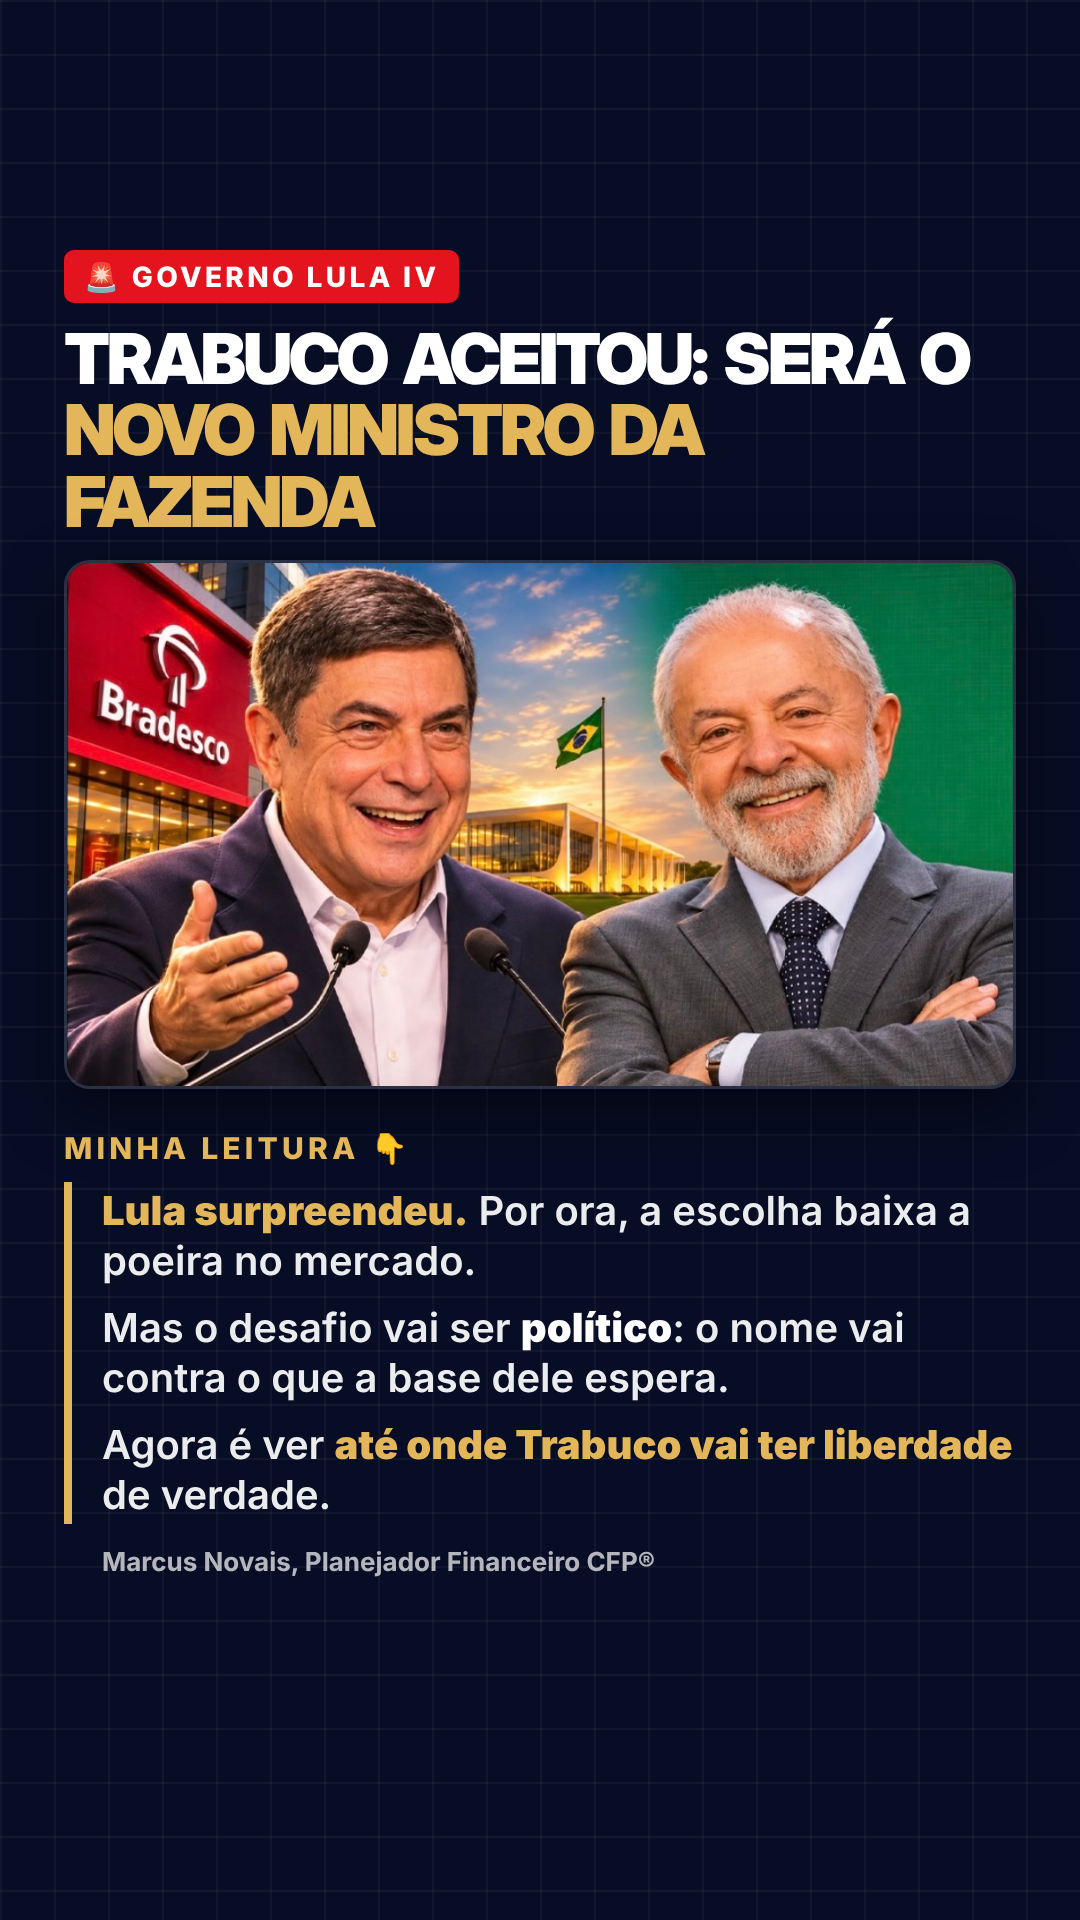
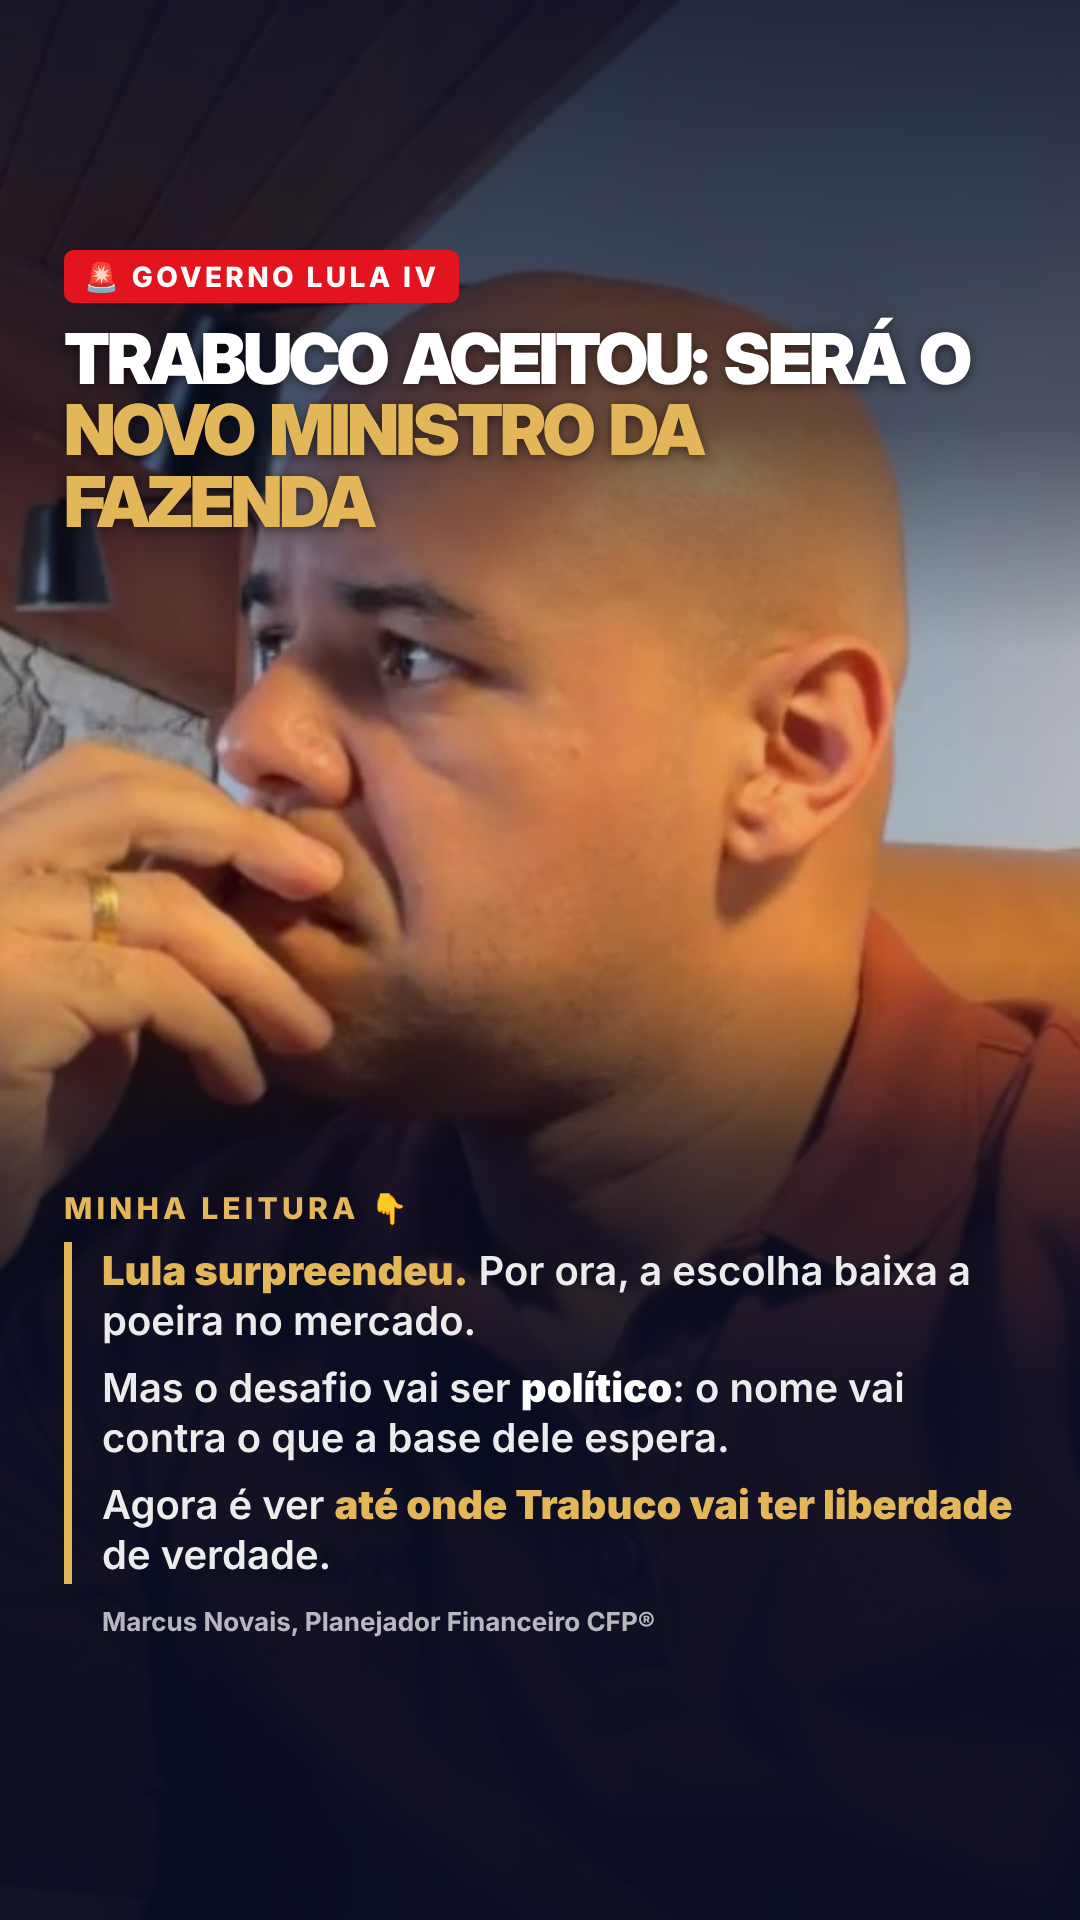
Story Trabuco: foto do Marcus de fundo
Claude-Session: https://claude.ai/code/session_01JkBXj6tz5hpSkGAznkwYEm

diff --git a/stories-trabuco-fazenda/opiniao.html b/stories-trabuco-fazenda/opiniao.html
@@ -6,7 +6,7 @@
     background-image:linear-gradient(rgba(255,255,255,.04) 2px, transparent 2px), linear-gradient(90deg, rgba(255,255,255,.04) 2px, transparent 2px); background-size:54px 54px; }
   .box { position:absolute; left:64px; right:64px; }
   .pill { display:inline-block; background:#e3141e; color:#fff; font-weight:800; font-size:28px; letter-spacing:.12em; text-transform:uppercase; padding:10px 20px 9px; border-radius:10px; }
-  h1 { font-family:"Inter Display","Inter",sans-serif; font-weight:900; text-transform:uppercase; font-size:70px; line-height:1.02; letter-spacing:-.045em; word-spacing:.1em; margin-top:20px; }
+  h1 { text-shadow:0 2px 12px rgba(0,0,0,.5); font-family:"Inter Display","Inter",sans-serif; font-weight:900; text-transform:uppercase; font-size:70px; line-height:1.02; letter-spacing:-.045em; word-spacing:.1em; margin-top:20px; }
   h1 em { font-style:normal; color:#e3b65a; }
   .ph { width:100%; border-radius:26px; overflow:hidden; box-shadow:0 24px 60px rgba(0,0,0,.5); border:3px solid rgba(255,255,255,.15); }
   .ph img { width:100%; display:block; }
@@ -18,10 +18,11 @@
   .sig { font-size:26px; font-weight:700; color:rgba(255,255,255,.7); margin-top:22px; padding-left:38px; }
 </style></head>
 <body>
+ <div style="position:absolute; inset:0"><img src="marcus.jpg" style="width:100%; height:100%; object-fit:cover; object-position:38% 50%"></div>
+ <div style="position:absolute; inset:0; background:linear-gradient(180deg, rgba(7,13,36,.85) 0%, rgba(7,13,36,.6) 22%, rgba(7,13,36,.1) 34%, rgba(7,13,36,.05) 50%, rgba(7,13,36,.7) 60%, rgba(7,13,36,.92) 72%, rgba(7,13,36,.95) 100%)"></div>
  <div class="box" style="top:250px"><div class="pill">🚨 Governo Lula IV</div>
   <h1>Trabuco aceitou: será o <em>novo Ministro da Fazenda</em></h1></div>
- <div class="box" style="top:560px"><div class="ph"><img src="trabuco-lula.jpg"></div></div>
- <div class="box" style="top:1130px"><div class="lab">Minha leitura 👇</div>
+ <div class="box" style="top:1190px"><div class="lab">Minha leitura 👇</div>
   <div class="op"><p><b class="g">Lula surpreendeu.</b> Por ora, a escolha baixa a poeira no mercado.</p>
    <p>Mas o desafio vai ser <b>político</b>: o nome vai contra o que a base dele espera.</p>
    <p>Agora é ver <b class="g">até onde Trabuco vai ter liberdade</b> de verdade.</p></div>
